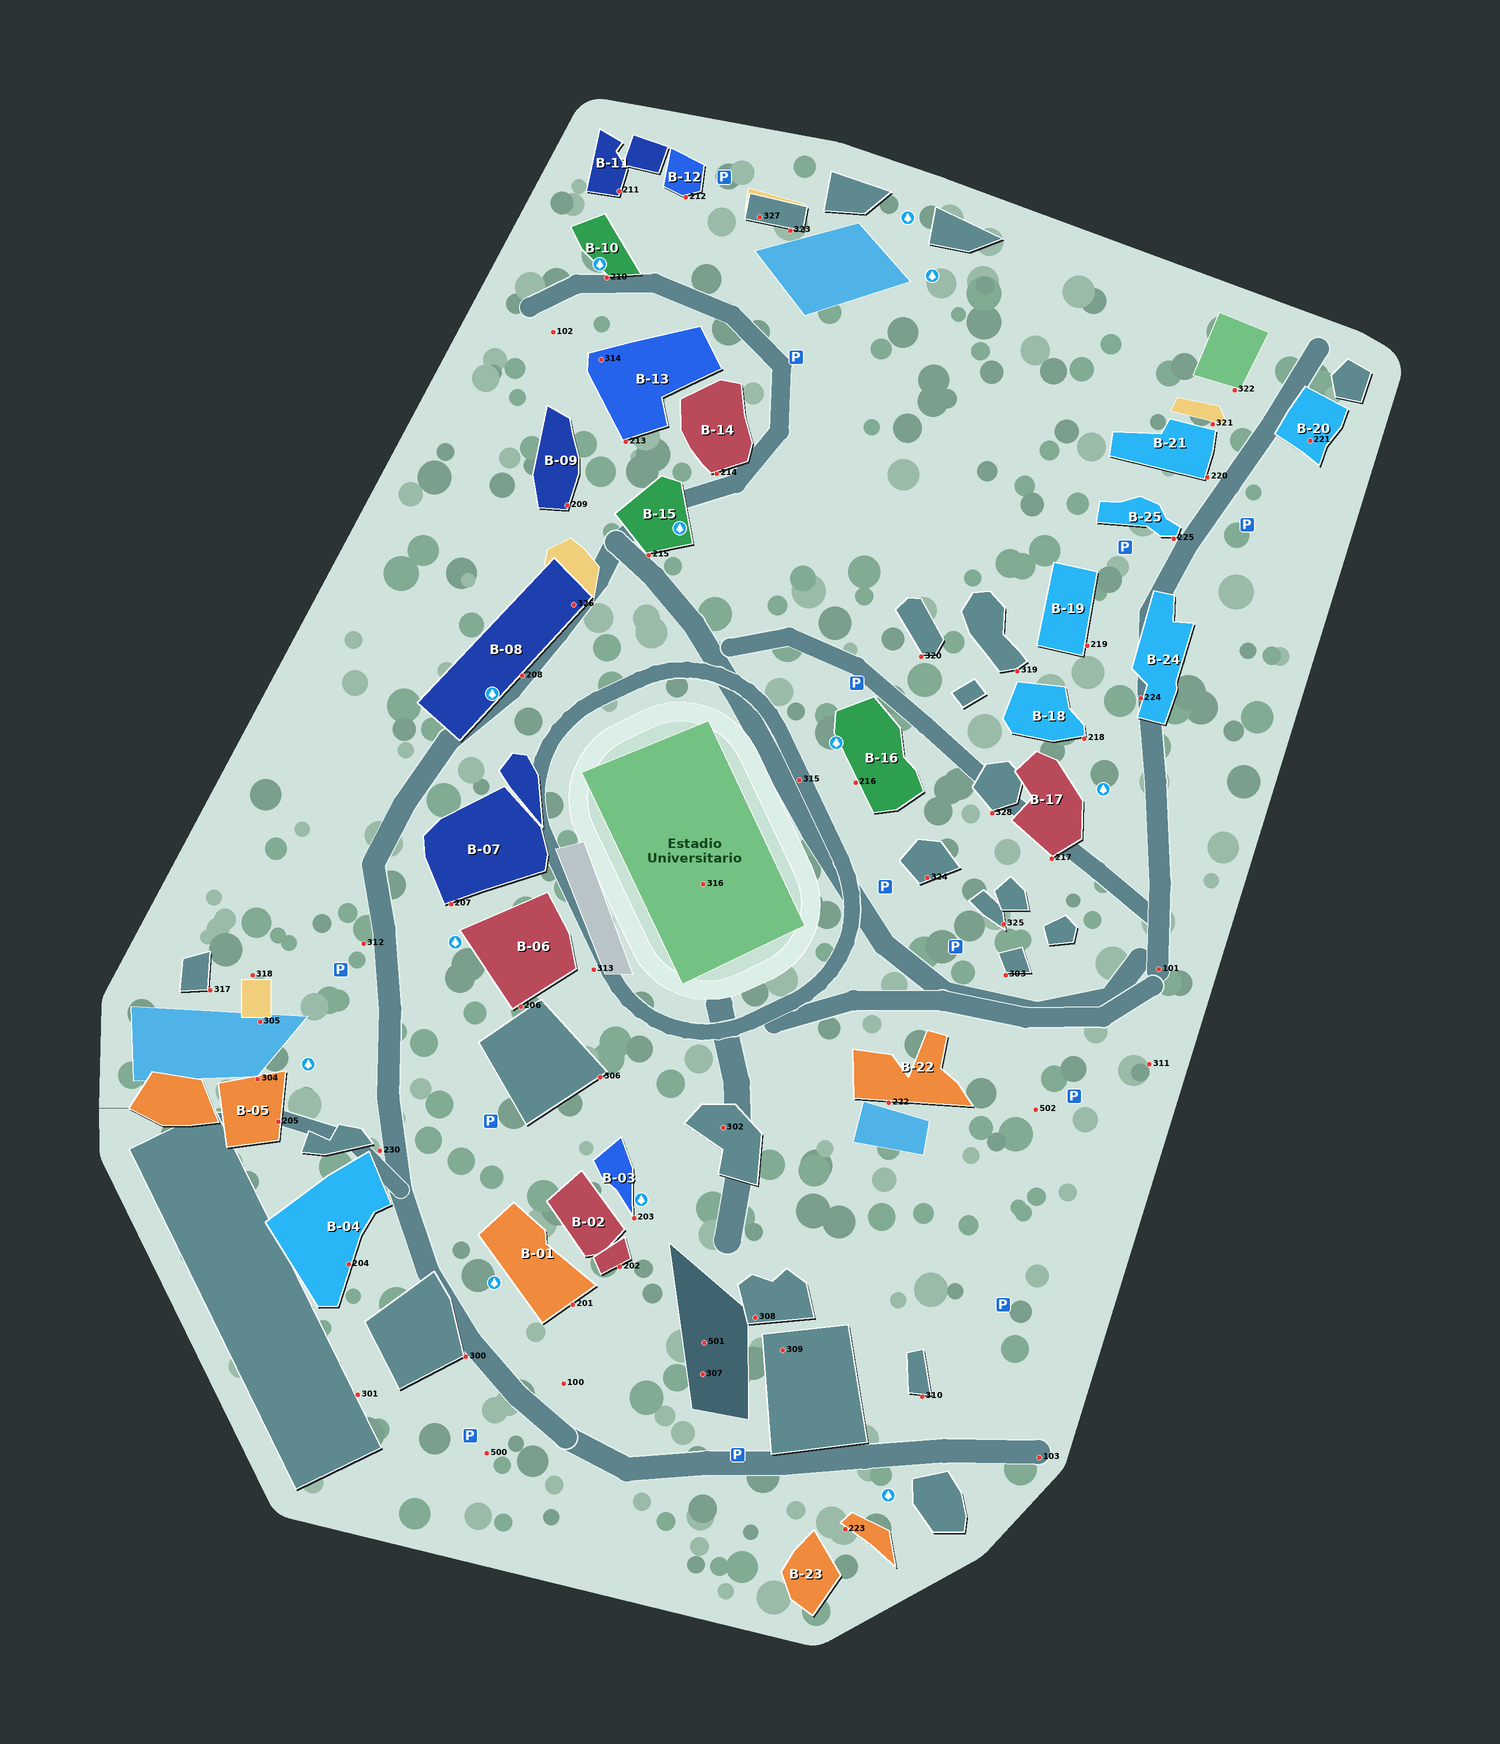
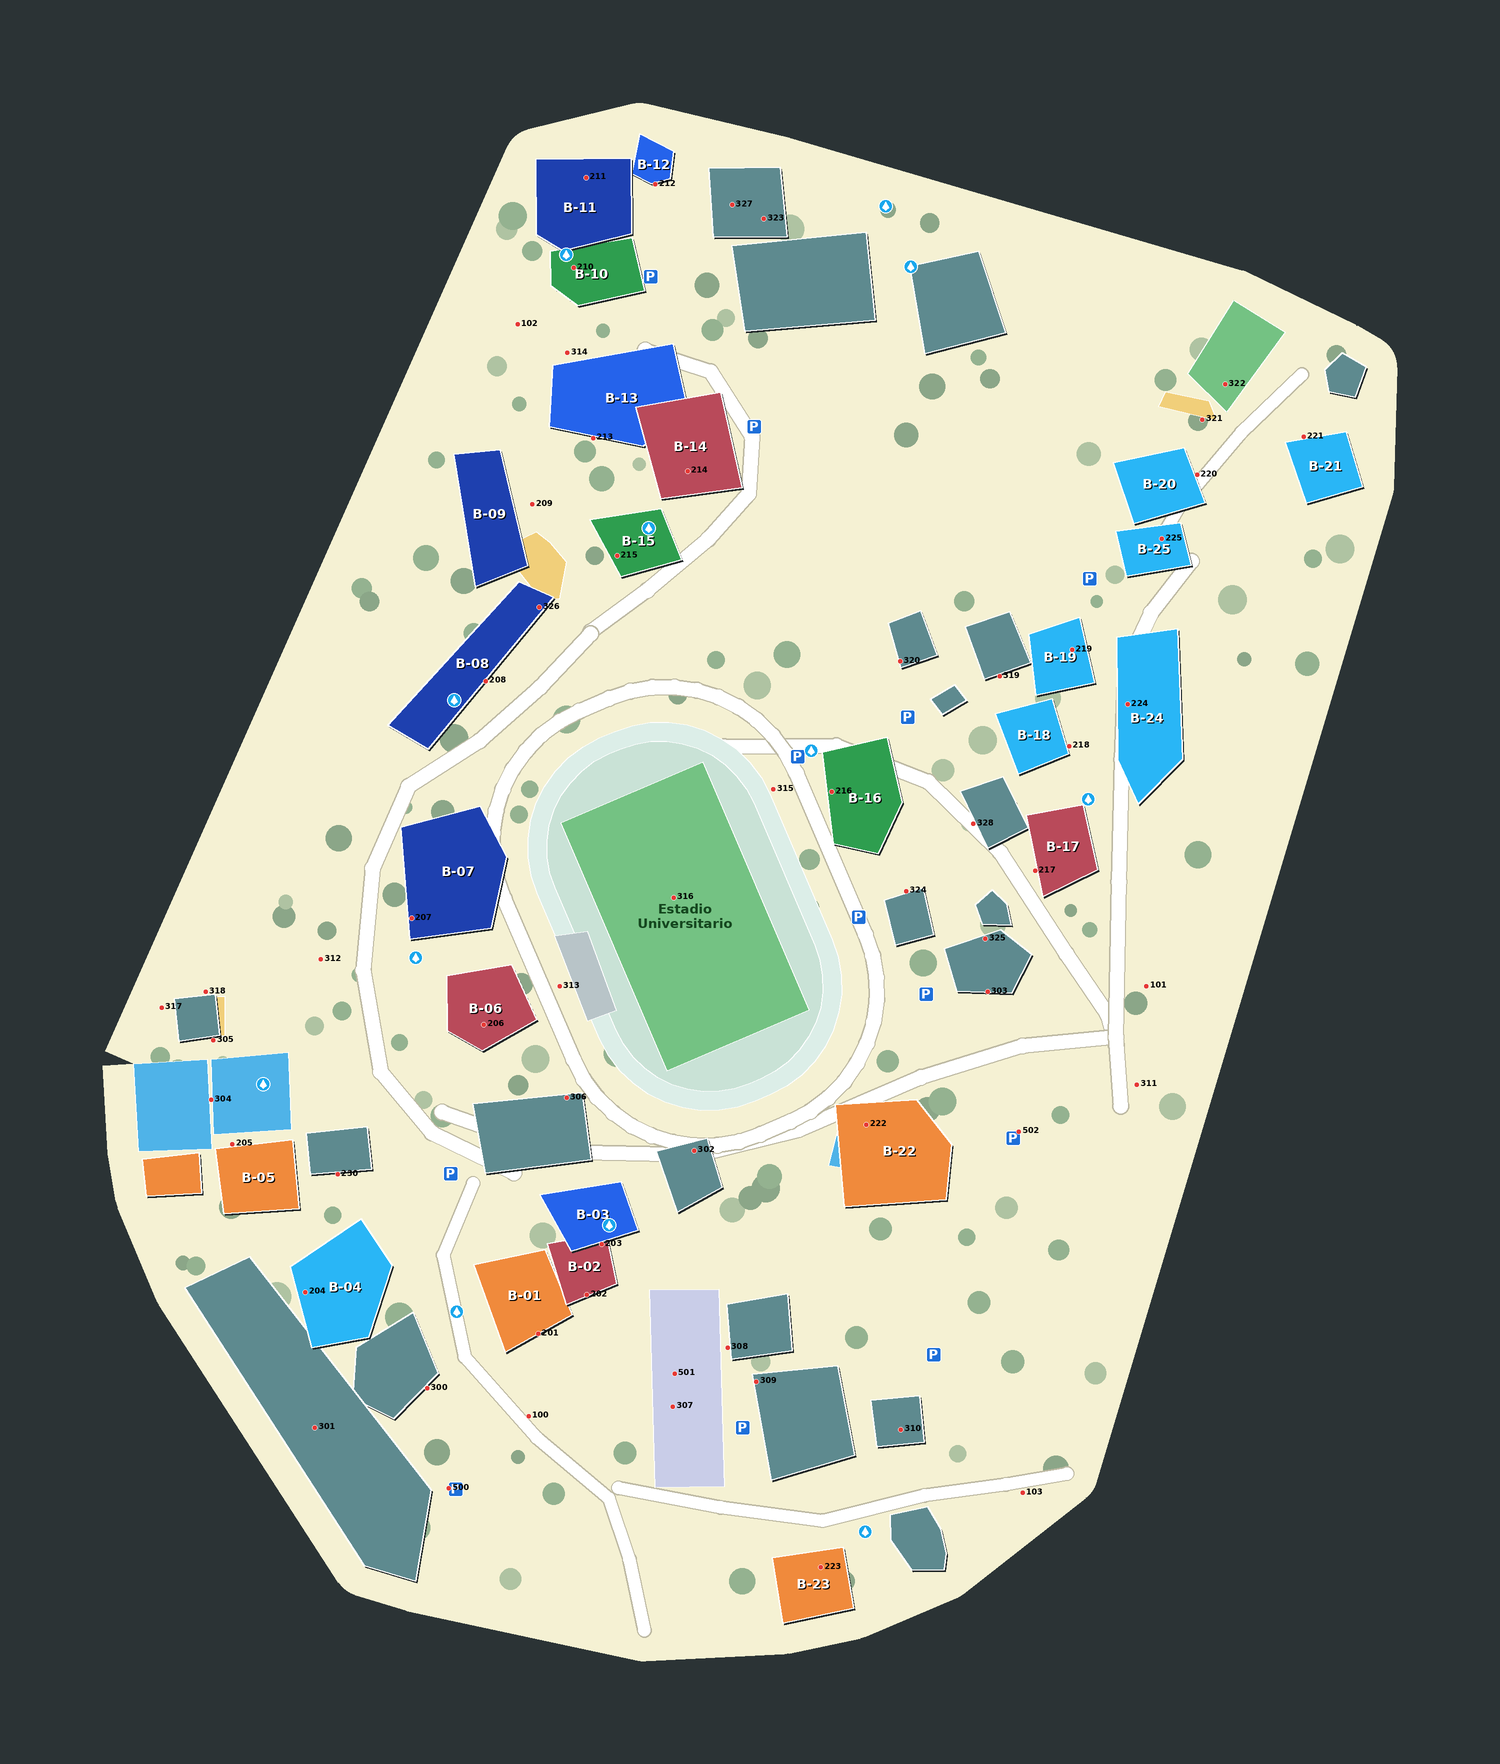
feat(mapa): huellas, estadio y calles según referencia OSM, terreno crema con poca vegetación; B-21 sin carreras y Psicología etc. en B-20

diff --git a/app/src/main/java/ec/edu/uleam/navigator/ui/map/CampusShapes.kt b/app/src/main/java/ec/edu/uleam/navigator/ui/map/CampusShapes.kt
@@ -43,13 +43,13 @@ internal fun facultyColor(grupo: String): Color = when (grupo) {
     else -> Color(0xFF5E8A8F)
 }
 
-/** Paleta "mapa físico": exterior oscuro, terreno claro con vegetación y vías oscuras con borde claro. */
+/** Paleta: exterior oscuro, terreno crema (como OpenStreetMap) con poca vegetación y vías blancas con borde gris. */
 object MapTheme {
     val OUTSIDE = Color(0xFF2B3335)
-    val GROUND = Color(0xFFCFE2DC)
-    val ROAD = Color(0xFF5D838C)
-    val ROAD_CASING = Color(0xFFE3F0EC)
-    val PLAZA = Color(0xFF3F6470)
+    val GROUND = Color(0xFFF5F1D3)
+    val ROAD = Color(0xFFFFFFFF)
+    val ROAD_CASING = Color(0xFFBDB9A3)
+    val PLAZA = Color(0xFFC9CDE8)
     val ARROW_YELLOW = Color(0xFFFFD21F)
 }
 
@@ -92,7 +92,7 @@ object CampusShapesGeometry {
     }
 
     /** Árboles repartidos con un generador congruencial fijo: el mapa se ve igual en cada arranque. */
-    fun trees(hull: List<GeoPoint>, count: Int = 650, seed: Long = 20260518L): List<Tree> {
+    fun trees(hull: List<GeoPoint>, count: Int = 140, seed: Long = 20260518L): List<Tree> {
         if (hull.size < 3) return emptyList()
         val minLat = hull.minOf { it.lat }; val maxLat = hull.maxOf { it.lat }
         val minLon = hull.minOf { it.lon }; val maxLon = hull.maxOf { it.lon }
@@ -103,7 +103,7 @@ object CampusShapesGeometry {
         while (out.size < count && tries < count * 12) {
             tries++
             val g = GeoPoint(minLat + next() * (maxLat - minLat), minLon + next() * (maxLon - minLon))
-            if (insideConvex(hull, g)) out.add(Tree(g.lat, g.lon, (4.0 + next() * 6.0).toFloat(), (next() * 3).toInt().coerceIn(0, 2)))
+            if (insideConvex(hull, g)) out.add(Tree(g.lat, g.lon, (2.5 + next() * 3.5).toFloat(), (next() * 3).toInt().coerceIn(0, 2)))
         }
         return out
     }
@@ -158,7 +158,7 @@ fun DrawScope.drawCampusGround(p: MapProjection, ground: CampusGround, zoom: Flo
     // El trazo grueso infla el contorno unos metros para que el terreno envuelva los edificios del borde
     drawPath(path, MapTheme.GROUND, style = Stroke(width = 26f * k, join = androidx.compose.ui.graphics.StrokeJoin.Round))
     drawPath(path, MapTheme.GROUND, style = Fill)
-    val tones = listOf(Color(0x99338A52), Color(0x992E7A47), Color(0x8860A870))
+    val tones = listOf(Color(0x8878B98A), Color(0x8868A87A), Color(0x7788C497))
     for (t in ground.trees) {
         val r = t.radioM * k
         if (r < 1.5f) continue
@@ -294,7 +294,7 @@ fun DrawScope.drawCampusShapes(p: MapProjection, shapes: List<CampusShape>, zoom
             labelPaint.textSize = when (l.tipo) { "COMIDA" -> 19f; else -> if (zoom >= 2f) 30f else 23f }
             val o = p.toScreen(l.centro.lat, l.centro.lon)
             val lines = l.texto.split('\n')
-            val dark = l.tipo == "ESTADIO"
+            val dark = l.tipo == "ESTADIO" || l.tipo == "PLAZA"
             lines.forEachIndexed { i, t ->
                 val y = o.y + labelPaint.textSize * 0.35f + (i - (lines.size - 1) / 2f) * labelPaint.textSize * 1.05f +
                     (if (l.tipo == "PLAZA") 6f * k else 0f)
@@ -304,6 +304,7 @@ fun DrawScope.drawCampusShapes(p: MapProjection, shapes: List<CampusShape>, zoom
                 }
                 labelPaint.color = when (l.tipo) {
                     "ESTADIO" -> android.graphics.Color.rgb(20, 70, 30)
+                    "PLAZA" -> android.graphics.Color.rgb(55, 60, 110)
                     "COMIDA" -> android.graphics.Color.rgb(110, 70, 20)
                     else -> android.graphics.Color.WHITE
                 }

diff --git a/build_shapes.py b/build_shapes.py
@@ -41,8 +41,6 @@ b('B-16',[(481,970),(500,945),(520,935),(550,965),(580,995),(585,1015),(555,1040
 b('B-17',[(324,995),(345,970),(393,990),(381,1017),(405,1035),(392,1060),(370,1058),(335,1030)])
 b('B-18',[(362,1087),(390,1072),(430,1067),(442,1077),(440,1115),(395,1125),(385,1107),(367,1097)])
 b('B-19',[(387,1140),(432,1135),(442,1215),(400,1220)])
-b('MAP-B-20',[(327,1337),(420,1329),(424,1352),(380,1365),(377,1381),(332,1385),(328,1365)])
-b('MAP-B-21',[(225,1385),(245,1392),(275,1400),(270,1425),(262,1452),(217,1445),(217,1427),(225,1405)])
 b('B-22',[(341,706),(451,676),(467,720),(430,727),(408,712),(406,760),(386,761),(382,730),(362,722)])
 b('B-23',[(325,202),(350,210),(367,232),(362,255),(350,280),(312,247)])
 b('B-23',[(265,271),(295,284),(329,294),(322,307),(282,302)])
@@ -101,6 +99,72 @@ ROADS=[
 OTRO_NODE={'A-01':309,'I-09':[308,319],'C-03':300,'CIEC':301,'K-11':310,'F-06':306,'E-05':302,'J-10':230,'M-13':324,
  'N-14':303,'Ñ-15':328,'G-07':320,'I-12':317,'EP ULEAM':323,'Tasty Food 2':326,'Tasty Food 3':327,'Tasty Food 4':321,
  'Cancha cesped':322,'Canchas multiples':304}
+
+# ======================= Referencia OpenStreetMap (665x725 px, norte arriba) =======================
+# Huellas trazadas sobre la captura de OSM (mismas dimensiones reales que el campus). Tienen prioridad sobre las de la foto.
+OSM_B=[
+ ('B-01',[(180,545),(215,538),(228,570),(195,588)]),
+ ('B-02',[(216,535),(245,530),(250,555),(225,565)]),
+ ('B-03',[(210,502),(250,496),(258,520),(225,530)]),
+ ('B-04',[(90,545),(125,522),(140,545),(128,580),(100,585)]),
+ ('B-05',[(18,495),(46,492),(47,512),(20,513)]),
+ ('B-05',[(54,490),(92,486),(95,520),(58,522)]),
+ ('B-06',[(168,403),(200,398),(212,425),(185,440),(168,430)]),
+ ('B-07',[(146,330),(185,320),(198,345),(190,380),(150,385)]),
+ ('B-08',[(205,210),(222,218),(160,292),(140,280)]),
+ ('B-09',[(162,150),(185,148),(198,205),(172,215)]),
+ ('B-10',[(222,48),(262,42),(268,68),(235,75),(222,65)]),
+ ('B-11',[(215,3),(262,3),(262,40),(228,48),(215,40)]),
+ ('B-13',[(224,98),(283,88),(290,120),(268,138),(222,128)]),
+ ('B-14',[(263,125),(305,118),(315,165),(275,170)]),
+ ('B-15',[(240,180),(275,175),(285,200),(255,208)]),
+ ('B-16',[(353,295),(385,288),(392,320),(380,345),(358,340)]),
+ ('B-17',[(462,325),(490,320),(497,352),(470,365)]),
+ ('B-18',[(434,278),(462,271),(470,298),(445,308)]),
+ ('B-19',[(455,238),(480,230),(487,262),(458,268)]),
+ ('B-20',[(495,155),(530,148),(540,175),(505,185)]),
+ ('B-21',[(582,148),(612,143),(620,170),(592,178)]),
+ ('B-22',[(358,468),(398,466),(415,488),(412,515),(362,518)]),
+ ('B-23',[(325,690),(360,685),(365,715),(330,722)]),
+ ('B-24',[(498,240),(528,236),(530,300),(508,322),(498,300)]),
+ ('B-25',[(498,188),(530,184),(535,205),(503,210)]),
+]
+OSM_O=[
+ ('OTRO','A-01',[(316,600),(358,596),(366,640),(325,652)]),
+ ('OTRO','I-09',[(310,565),(340,560),(342,588),(312,592)]),
+ ('OTRO','I-09',[(423,232),(445,225),(455,250),(432,258)]),
+ ('OTRO','K-11',[(374,613),(398,611),(400,634),(377,636)]),
+ ('OTRO','C-03',[(122,585),(150,568),(162,598),(140,620),(120,610)]),
+ ('OTRO','CIEC',[(38,555),(70,540),(158,655),(150,700),(125,692)]),
+ ('OTRO','F-06',[(180,466),(234,461),(238,494),(186,500)]),
+ ('OTRO','E-05',[(270,490),(295,484),(302,508),(280,520)]),
+ ('OTRO','J-10',[(98,476),(128,473),(130,494),(100,496)]),
+ ('OTRO','M-13',[(383,368),(402,362),(407,385),(388,390)]),
+ ('OTRO','N-14',[(412,392),(440,383),(455,395),(445,414),(418,413)]),
+ ('OTRO','Ñ-15',[(427,312),(448,305),(460,330),(440,340)]),
+ ('OTRO','G-07',[(386,232),(402,226),(410,248),(392,254)]),
+ ('OTRO','I-12',[(46,412),(66,410),(68,430),(48,433)]),
+ ('OTRO','EP ULEAM',[(312,58),(378,52),(382,95),(318,100)]),
+ ('OTRO','JUAN MONTALVO ANTIGUO',[(300,8),(335,8),(338,42),(302,42)]),
+ ('OTRO','JUAN MONTALVO NUEVO',[(398,57),(432,50),(445,90),(405,100)]),
+ ('CANCHA_VERDE','Cancha cesped',[(557,75),(582,91),(553,130),(534,111)]),
+ ('CANCHA','Canchas multiples',[(14,445),(50,443),(52,487),(16,488)]),
+ ('CANCHA','Canchas multiples',[(52,443),(90,440),(91,478),(53,480)]),
+ ('PLAZA','Plaza Cultural',[(266,558),(300,558),(302,655),(268,655)]),
+ ('GRADA','Gradas',[(221,384),(237,382),(251,421),(237,426)]),
+]
+OSM_STADIUM=dict(c=(285.0,375.0),u=(0.386,0.922),hl=66.0,hw=38.0,track_hl=97.0,track_hw=62.0)
+OSM_PARK=[(271,61),(321,135),(485,211),(341,297),(395,278),(370,376),(403,414),(445,485),(169,500),(311,626),(405,591),(170,655)]
+OSM_ROADS=[  # (ancho en metros, polilinea en px de OSM)
+ (6,[(268,97),(300,108),(320,140),(318,168),(298,190),(268,215),(240,235)]),
+ (6,[(240,236),(215,262),(185,288),(150,310),(132,350),(127,400),(135,450),(160,480),(200,500)]),
+ (6,[(305,292),(360,292),(405,310),(440,345),(472,395),(492,425),(496,440)]),
+ (6,[(165,470),(220,490),(290,492),(340,480),(400,455),(450,440),(496,436)]),
+ (6,[(535,203),(515,228),(502,255),(500,300),(498,360),(496,436),(498,470)]),
+ (5,[(590,112),(560,140),(530,175),(512,205)]),
+ (5,[(180,505),(165,540),(175,590),(210,630),(245,660),(255,690),(262,725)]),
+ (5,[(250,655),(300,665),(350,672),(400,660),(440,655),(470,650)]),
+]
 # puntas de las flechas amarillas de ingreso -> nodos 100..103
 GATES={100:(595,287),103:(192,420),101:(227,877),102:(937,1274)}
 
@@ -170,8 +234,6 @@ def fit_sim(P, G, W):
 def calibrate(nodes):
     byblock = {}
     for t, c, p in E:
-        if c.startswith('MAP-'):
-            c = {'MAP-B-20': 'B-21', 'MAP-B-21': 'B-20'}[c]
         if t == 'EDIFICIO': byblock.setdefault(c, []).append(p)
     # B-20/B-21: los nodos 220/221 siguen la rotulacion fisica del mapa (ver BLOQUE_REAL en build_lugares.py)
     ctrl = {}  # nodo -> codigo de bloque del edificio donde esta fisicamente
@@ -179,7 +241,6 @@ def calibrate(nodes):
         m = re.search(r'Entrada Bloque B-(\d+)$', d.strip())
         if m:
             k = 'B-%02d' % int(m.group(1))
-            if k in ('B-20', 'B-21'): k = 'B-21' if k == 'B-20' else 'B-20'
             ctrl[nid] = k
     P, G, W = [], [], []
     for nid, k in ctrl.items():
@@ -214,12 +275,51 @@ def pt_in_poly(p, poly):
     return ins
 
 
+def build_osm(nodes):
+    """Calibra la captura de OSM con los nodos (semejanza + ICP) y devuelve (figuras geograficas, codigos, parqueos, calles, sim)."""
+    shapes = [['EDIFICIO', c, [tuple(map(float, q)) for q in p]] for c, p in OSM_B]
+    shapes += [[t, c, [tuple(map(float, q)) for q in p]] for t, c, p in OSM_O]
+    ctrl = []   # (codigo, nodo)
+    for nid, (d, la, lo) in nodes.items():
+        m = re.search(r'Entrada Bloque B-(\d+)$', d.strip())
+        if m and 200 <= nid < 300: ctrl.append(('B-%02d' % int(m.group(1)), nid))
+    for code, ids in OTRO_NODE.items():
+        for nid in (ids if isinstance(ids, list) else [ids]): ctrl.append((code, nid))
+    polys = lambda code: [sh[2] for sh in shapes if sh[1] == code]
+    ctrl = [(c, n) for c, n in ctrl if polys(c)]
+    def nearest_poly(code, g):
+        best = None
+        for P in polys(code):
+            q, d = nearest_on([P], g)
+            if best is None or d < best[1]: best = (q, d)
+        return best
+    P0 = [np.mean([np.mean(P, axis=0) for P in polys(c)], axis=0) for c, n in ctrl]
+    G0 = [to_m(*nodes[n][1:]) for c, n in ctrl]
+    sim = fit_sim(P0, G0, [1.0] * len(P0))
+    for _ in range(15):
+        P2 = [nearest_poly(c, sim.inv(np.array(to_m(*nodes[n][1:]))))[0] for c, n in ctrl]
+        sim = fit_sim(P2, G0, [1.0] * len(P2))
+    errs = [nearest_poly(c, sim.inv(np.array(to_m(*nodes[n][1:]))))[1] * np.hypot(*sim.s[:2]) for c, n in ctrl]
+    print('OSM: distancia entrada-edificio media %.1f m, max %.1f m | %.3f m/px' % (np.mean(errs), max(errs), np.hypot(*sim.s[:2])))
+    st = OSM_STADIUM; c = np.array(st['c']); u = np.array(st['u']); v = np.array([-u[1], u[0]])
+    shapes.append(['PISTA', 'Estadio', rrect(c[0], c[1], u[0], u[1], st['track_hl'], st['track_hw'], 58)])
+    shapes.append(['PISTA_INT', 'Estadio', rrect(c[0], c[1], u[0], u[1], st['track_hl'] - 9, st['track_hw'] - 9, 50)])
+    pitch = [c - st['hl'] * u - st['hw'] * v, c - st['hl'] * u + st['hw'] * v, c + st['hl'] * u + st['hw'] * v, c + st['hl'] * u - st['hw'] * v]
+    shapes.append(['CANCHA_ESTADIO', 'Estadio', [tuple(map(float, q)) for q in pitch]])
+    geo = [[t, c_, [to_ll(*sim.fwd(np.array(q))) for q in p]] for t, c_, p in shapes]
+    park = [to_ll(*sim.fwd(np.array(p, float))) for p in OSM_PARK]
+    k = float(np.hypot(*sim.s[:2]))
+    roads = [(w, [to_ll(*sim.fwd(np.array(q, float))) for q in pts]) for w, pts in OSM_ROADS]
+    ring = rrect(c[0], c[1], u[0], u[1], st['track_hl'] + 16, st['track_hw'] + 16, 70)
+    roads.append((6, [to_ll(*sim.fwd(np.array(q, float))) for q in ring + [ring[0]]]))
+    return geo, {sh[1] for sh in shapes}, park, roads
+
+
 def main():
     nodes = load_nodes(); sim = calibrate(nodes)
     # ---- ajustes en espacio de foto (px) ----
     shapes = []   # (tipo, codigo, [(x,y) px])
     for t, c, p in E:
-        c = {'MAP-B-20': 'B-21', 'MAP-B-21': 'B-20'}.get(c, c)   # el mapa fisico las rotula al reves
         shapes.append([t, c, [tuple(map(float, q)) for q in p]])
     for t, c, p in O:
         shapes.append([t, c, [tuple(map(float, q)) for q in p]])
@@ -241,6 +341,9 @@ def main():
     out = []
     for t, c, p in shapes:
         out.append([t, c, [to_ll(*sim.fwd(np.array(q))) for q in p]])
+    # Referencia OSM: sus huellas, calles, estadio y parqueos sustituyen a las trazadas sobre la foto
+    osm_geo, osm_codes, osm_park, osm_roads = build_osm(nodes)
+    out = [o for o in out if o[1] not in osm_codes] + osm_geo
     # Cada edificio se acerca a su nodo de entrada (DESTINO): la huella debe tocar el nodo, sin saltos grandes (<= 16 m)
     def snap(code, nid, tipos):
         polys = [o for o in out if o[1] == code and o[0] in tipos]
@@ -251,7 +354,7 @@ def main():
         q, d = nearest_on([[to_m(*pt) for pt in o[2]] for o in target], n)
         inside = any(pt_in_poly(n, [to_m(*pt) for pt in o[2]]) for o in target)
         if inside or d <= 1.5: return
-        step = min(d - 1.0, 16.0); v = (n - q) / d * step
+        step = min(d - 1.0, 10.0); v = (n - q) / d * step
         for o in target: o[2] = [to_ll(*(np.array(to_m(*pt)) + v)) for pt in o[2]]
         print('  %-18s nodo %d: acercado %.1f m (estaba a %.1f m)' % (code, nid, step, d))
     BLOQUES_MULTI = {'B-02', 'B-05', 'B-07', 'B-11', 'B-23'}
@@ -259,7 +362,6 @@ def main():
         m = re.search(r'Entrada Bloque B-(\d+)$', d_.strip())
         if m and 200 <= nid < 300:
             code = 'B-%02d' % int(m.group(1))
-            if code in ('B-20', 'B-21'): code = 'B-21' if code == 'B-20' else 'B-20'   # rotulado fisico invertido
             snap(code, nid, ('EDIFICIO',))
     for code, ids in OTRO_NODE.items():
         for nid in (ids if isinstance(ids, list) else [ids]):
@@ -269,11 +371,9 @@ def main():
     hy = abs(a[1] - b[1]) / 2 - 2.0; hx = 6.5
     tasty = [(mid[0] - hx, mid[1] - hy), (mid[0] + hx, mid[1] - hy), (mid[0] + hx, mid[1] + hy), (mid[0] - hx, mid[1] + hy)]
     out.append(['COMIDA', 'Tasty Food 1', [to_ll(*q) for q in tasty]])
-    for w, pts in ROADS:
-        out.append(['VIA', '%.1f' % (w * 0.5 * float(np.hypot(*sim.s[:2]))), [to_ll(*sim.fwd(np.array(q, float))) for q in pts]])
-    ring = rrect(pc[0], pc[1], u[0], u[1], hl + 58, hw + 58, 100)
-    out.append(['VIA', '%.1f' % (30 * 0.5 * float(np.hypot(*sim.s[:2]))), [to_ll(*sim.fwd(np.array(q, float))) for q in ring + [ring[0]]]])
-    for p in PARK: out.append(['PARQUEO', 'P', [to_ll(*sim.fwd(np.array(p, float)))]])
+    for w, pts in osm_roads:
+        out.append(['VIA', '%.1f' % w, pts])
+    for g in osm_park: out.append(['PARQUEO', 'P', [g]])
     for p in WATER: out.append(['AGUA', 'Agua', [to_ll(*sim.fwd(np.array(p, float)))]])
     path = os.path.join(ROOT, 'app/src/main/assets/campus_shapes.csv')
     with open(path, 'w', encoding='utf-8', newline='') as f:

diff --git a/build_lugares.py b/build_lugares.py
@@ -25,9 +25,11 @@ FIXES = {
     "Ingeneria": "Ingenieria",
     "Billingue": "Bilingue",
 }
-# El mapa físico rotula al revés dos bloques: el edificio que el mapa llama B-21 es en realidad el B-20 y viceversa.
-# El id_nodo no cambia; solo el número de bloque que se muestra y se busca.
-BLOQUE_REAL = {220: "B-21", 221: "B-20"}
+# Bloque B-21 (nodo 221): sin carreras por el momento. Las carreras de Ciencias de la Salud que figuraban en él
+# (Psicología, Fisioterapia, Fonoaudiología, Terapia Ocupacional, Nutrición) se atienden en el B-20 (nodo 220).
+CARRERAS_DE = {220: 221}        # nodo -> nodo del que toma las carreras
+SIN_CARRERAS = {221}            # nodos sin carreras por el momento
+BLOQUE_REAL = {}                # id_nodo -> bloque a mostrar si difiere del que trae el CSV (hoy ninguno)
 
 # Sinónimos que ayudan a encontrar la facultad por palabras sueltas.
 SINONIMOS = {
@@ -130,8 +132,14 @@ def main() -> None:
             fac, sigla = split_facultad(fac_raw)
             carreras = fix(src["Carrera"])
             carreras = "" if carreras.lower() in NO_DISPONIBLE else carreras
+            if nid in CARRERAS_DE:
+                c2 = fix(fuente[CARRERAS_DE[nid]]["Carrera"])
+                carreras = "" if c2.lower() in NO_DISPONIBLE else c2
+            elif nid in SIN_CARRERAS:
+                carreras = ""
             m = re.search(r"B-\d+", r["codigo"])  # idempotente: acepta "B-16" o "FCS·B-16"
-            bloque = BLOQUE_REAL.get(nid) or (m.group(0) if m else "")
+            md = re.search(r"B-\d+", src.get("Descri", ""))  # el bloque sale de la descripción original del nodo
+            bloque = BLOQUE_REAL.get(nid) or (md.group(0) if md else (m.group(0) if m else ""))
             if bloque:
                 acceso2 = ", acceso 2" if nid == 314 else ""
                 if nid == 230:
@@ -139,7 +147,8 @@ def main() -> None:
                 else:
                     r["nombre"] = f"Facultad de {fac} (Bloque {bloque}{acceso2})"
                 r["codigo"] = f"{sigla}·{bloque}"
-                r["descripcion"] = carreras or f"Facultad de {fac}"
+                r["descripcion"] = carreras or (
+                    "No disponible por el momento" if nid in SIN_CARRERAS else f"Facultad de {fac}")
             else:
                 r["descripcion"] = carreras or f"Facultad de {fac}"
             r["etiquetas"] = f"{sigla.lower()} {SINONIMOS.get(sigla, '')}".strip()
